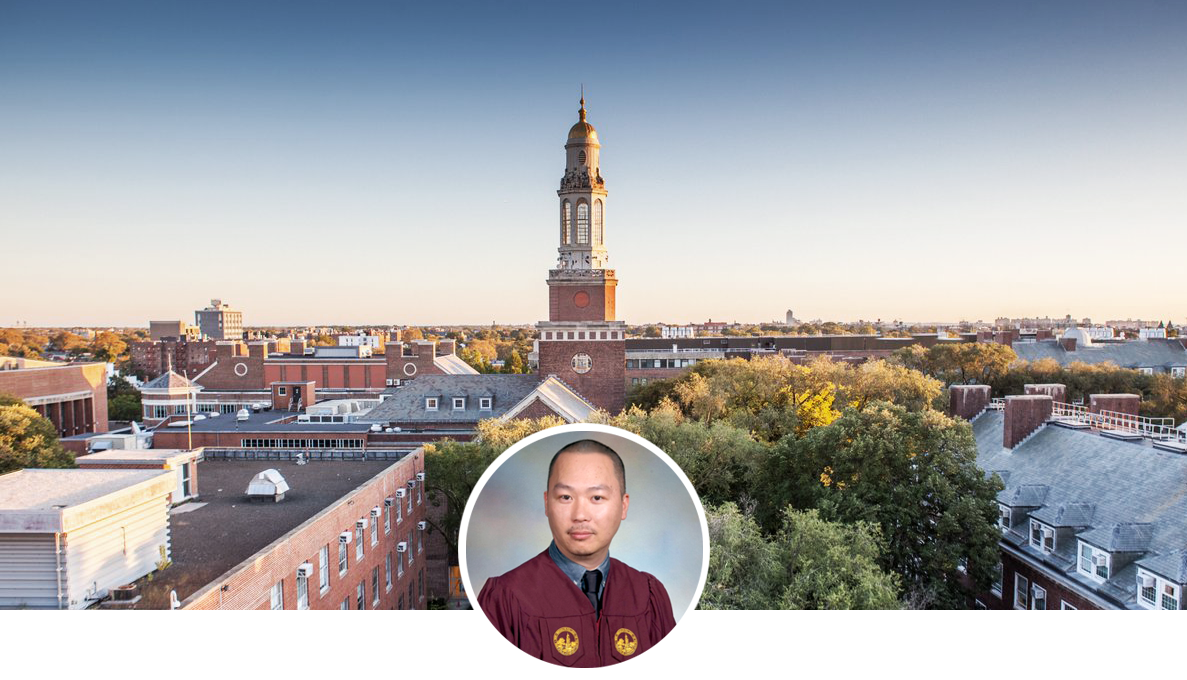
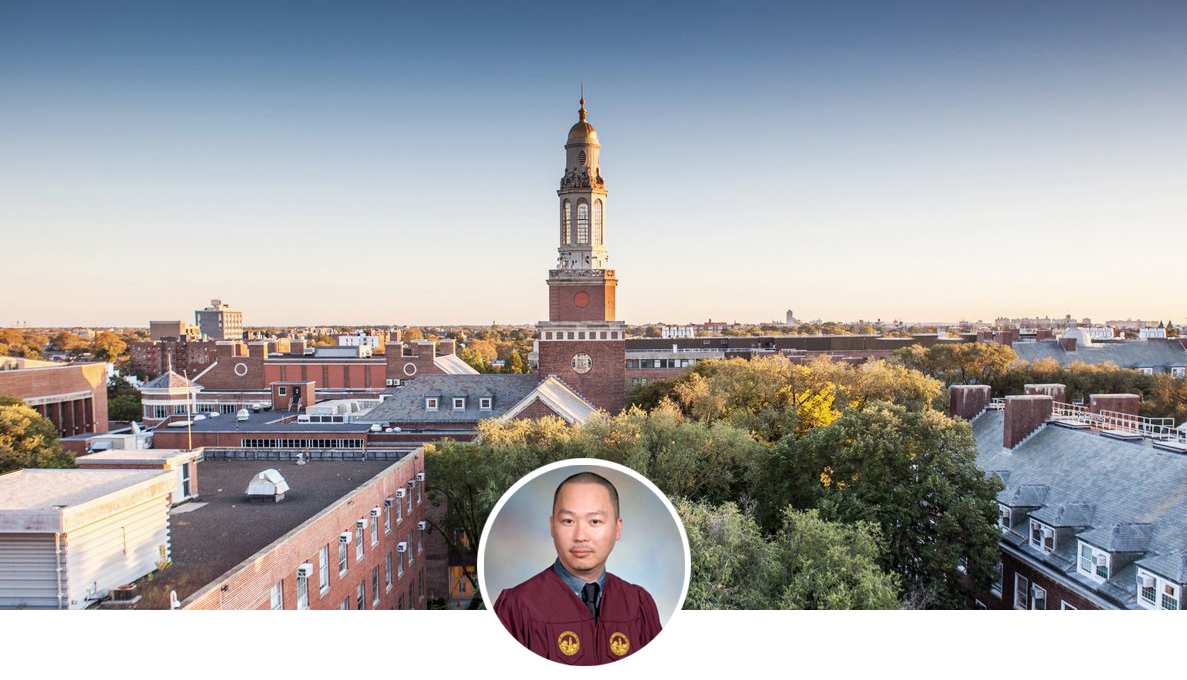
second newest add

Changed region(s): [[0.3741, 0.6176, 0.6234, 0.9882]]

diff --git a/activity.htm b/activity.htm
@@ -11,22 +11,22 @@ body {
 	margin:0;
 }
 
-.column-left {float:left; width:21.5%; padding: 0.8em}
+.column-left {float:left; width:20.5%; padding: 0.5%}
 
-.column-mid {float:left; width:50%; padding: 0.8em;}
+.column-mid {float:left; width:58%}
 
 .column-mid p {
 	display: block;
 	margin-left: auto;
 	margin-right: auto;
 	width: 100%;
-	color: #737373;
+	color: black;
 	font-size: 0.9em;
 	/*text-align: justify;*/
 	line-height: 1.8;
 }
 
-.column-right {float:right; width:21.5%; padding: 0.8em;}
+.column-right {float:right; width:20.5%; padding: 0.5%}
 /*
 .activity:after {
 	content: "";
@@ -73,7 +73,7 @@ body {
 </style>
 
 <body>
-	<nav class="navbar navbar-inverse">
+	<nav class="navbar-inverse">
 	  <div class="container-fluid">
 	      <ul class="navbar">
 	        <li><a href="index.htm">HOME</a></li>
@@ -88,13 +88,13 @@ body {
 	<div class="activity">
 		<div class="column-left"></div>
 		<div class="column-mid">
+			<img src="hackathon.jpg" alt="hackathon" style="width:100%; height:auto; margin:1.5em auto 0.2em auto">
 			<h5>Baruch College, Nov 15, 2019</h5>
-			<img src="hackathon.jpg" alt="hackathon" style="width:100%; height:auto">
 			<h2 style="line-height: 1.5">What we did in HACKATHON 2019?</h2>
 			<p style="margin:-0.5em auto 2.5em auto">Our idea for this contest was to create a new navigation system for blinds. It also makes easier and more intelligent for them to get around without relying on blind sticks. OWL was our solution, which could use in wearable devices，like glasses. We split it into three core parts. The first part is the object recognition, which was able to tell what objects were around. The second part is direction identification, which was able to identify directions for the user, and the distance between the object and user. The last part was voice output，which to transmit information to the user in the form of sound. </p>
 
+			<img src="image1.png" style="width:100%; height:auto; margin:1.5em auto 0.2em auto"">
 			<h5>Sep, 2019 - Dec, 2019</h5>
-			<img src="image1.png" style="width:100%; height:auto">
 			<h2 style="line-height: 1.5">Deep Learning Team</h2>
 			<p style="margin:-0.5em auto 2.5em auto">I joined Dr. Tang's Deep Learning Team in September 2019, which mainly engaged in research on the field of image recognition. During this period, I primarily focus on Neural Networks and Convolutional Networks, optimizations, and the construction of the model. </p>
 		</div>

diff --git a/about.htm b/about.htm
@@ -29,8 +29,8 @@ body {
 	margin-right: auto;
 	margin-bottom: 0.8em;
 	/*text-align: justify;*/
-	width: 50%;
-	color: #737373;
+	width: 58%;
+	color: black;
 	font-size: 0.9em;
 	line-height: 1.8;
 }
@@ -74,7 +74,7 @@ body {
 </style>
 
 <body>
-	<nav class="navbar navbar-inverse">
+	<nav class="navbar-inverse">
 	  <div class="container-fluid">
 	      <ul class="navbar">
 	        <li><a href="index.htm">HOME</a></li>
@@ -88,8 +88,8 @@ body {
 
 	<div class="about">
 		<div class="content">
-			<img src="BKC_02.png" style="width: 50%; height:auto; display:block; margin:1.5em auto 1em auto">
-			<p style="text-align: center; margin-top: -1em; color: black">ZHUOQUAN CHEN<br>B.S.</p>
+			<img src="BKC_02.jpg" style="width: 58%; height:auto; display:block; margin:1.5em auto 1em auto">
+			<p style="font-size: 1em;text-align: center; margin-top: -1em; color: black">ZHUOQUAN CHEN<br>B.S.</p>
 			<p>Graduated in computer science from Brooklyn College in Spring, 2020 with good knowledge of Programming, Machine Learning and Data Science. I like solving problems because I believe that there are always more solutions than problems. And also I really enjoy fixing little details and optimizations, I know nothing is perfect, but I believe we can make them better and better, sometimes details even make a difference. I like working in a team, you will learn faster and much more. As saying that: Two heads are better than one.</p>
 			<h3>CONTACT ME</h3>
 			<p style="font-size:0.7em; color: black; text-align: center;"><i>ZHUOQUAN1223@GMAIL.COM | 718-300-0078 | BROOKLYN, NEW YORK</i></p>

diff --git a/projects.htm b/projects.htm
@@ -11,9 +11,9 @@ body {
 	margin:0;
 }
 
-.column-left {float:left; width:21.5%; padding: 0.8em}
+.column-left {float:left; width:20.5%; padding: 0.5%}
 
-.column-mid {float:left; width:50%; padding: 0.8em;}
+.column-mid {float:left; width:58%}
 
 .column-mid h4 {
 	line-height: 1.8;
@@ -33,7 +33,7 @@ body {
 	margin-bottom: 3em;
 }
 
-.column-right {float:right; width:21.5%; padding: 0.8em;}
+.column-right {float:right; width:20.5%; padding: 0.5%}
 
 .navbar {
 	list-style-type: none;
@@ -74,7 +74,7 @@ body {
 </style>
 
 <body>
-	<nav class="navbar navbar-inverse">
+	<nav class="navbar-inverse">
 	  <div class="container-fluid">
 	      <ul class="navbar">
 	        <li><a href="index.htm">HOME</a></li>
@@ -108,7 +108,7 @@ body {
 			<h4>Data exploratory and visualization. The analyzed data from yahoo finance, which respectively are Bank of America, CitiGroup, Goldman Sachs, JPMorgan Chase, Morgan Stanley and Wells Fargo from Jan 1st 2006 to Jan 1st 2016.</h4>
 			<p>1> Analysis:<br>
 			   Discovery 1: 4 bank shares had the worst on Jan 20th 2009, which was the day of Obama's inauguration.<br>
-			   Discovery 2: Standard Deviation found that the Morgan Stanley was the riskiest stock of those bank shares in 2015.<br>
+			   Discovery 2: Using Standard Deviation found that the Morgan Stanley was the riskiest stock of those bank shares in 2015.<br>
 			   2> Data Visualization:<br>
 			   Create a distplot chart to show year returns for each stock.<br>
 			   Create a line plot showing the close price for each bank for the entire index of time.<br>

diff --git a/index.htm b/index.htm
@@ -38,7 +38,8 @@ body {
 
 .navbar {
 	margin:0 auto;
-	width: 55%;
+	text-align:right;
+	list-style-type: none;
 	/*border: 1px solid white;
 	background-color: rgba(0,0,0,0.4);
 	overflow: auto;*/
@@ -46,11 +47,14 @@ body {
 
 .navbar a {
 	float: left;
-	padding: 0.7em 0 0.7em 0;
+	display: block;
+	width: 10em;
 	color: white;
 	text-decoration: none;
 	font-size: 0.8em;
-	width: 25%; /* Four links of equal widths */
+	margin-top: 28em;
+	margin-left: 6em;
+
 }
 
 .navbar a:hover {color: rgba(255,255,255,0.4)}
@@ -65,14 +69,18 @@ body {
 </style>
 
 <body>
+	<nav class="navbar-inverse">
+	  <div class="container-fluid">
+	      <ul class="navbar">
+	        <li><a href="index.htm">HOME</a></li>
+			<li><a href="about.htm">ABOUT</a></li>
+			<li><a href="activity.htm">ACTIVITY</a></li>
+			<li><a href="projects.htm">PROJECT</a></li>
+	      </ul>
+	    </div>
+	  </div>
+	</nav>
 	<div class="index">
-		
-		<div class="navbar" style="margin-top: 22em">
-			<a href="index.htm"><b>HOME<b></a>
-			<a href="about.htm"><b>ABOUT<b></a>
-			<a href="activity.htm"><b>ACTIVITY<b></a>
-			<a href="projects.htm"><b>PROJECT<b></a>
-		</div>
 		<div class="image">
 			<img id="background" src="homepage.jpg">
 		</div>
